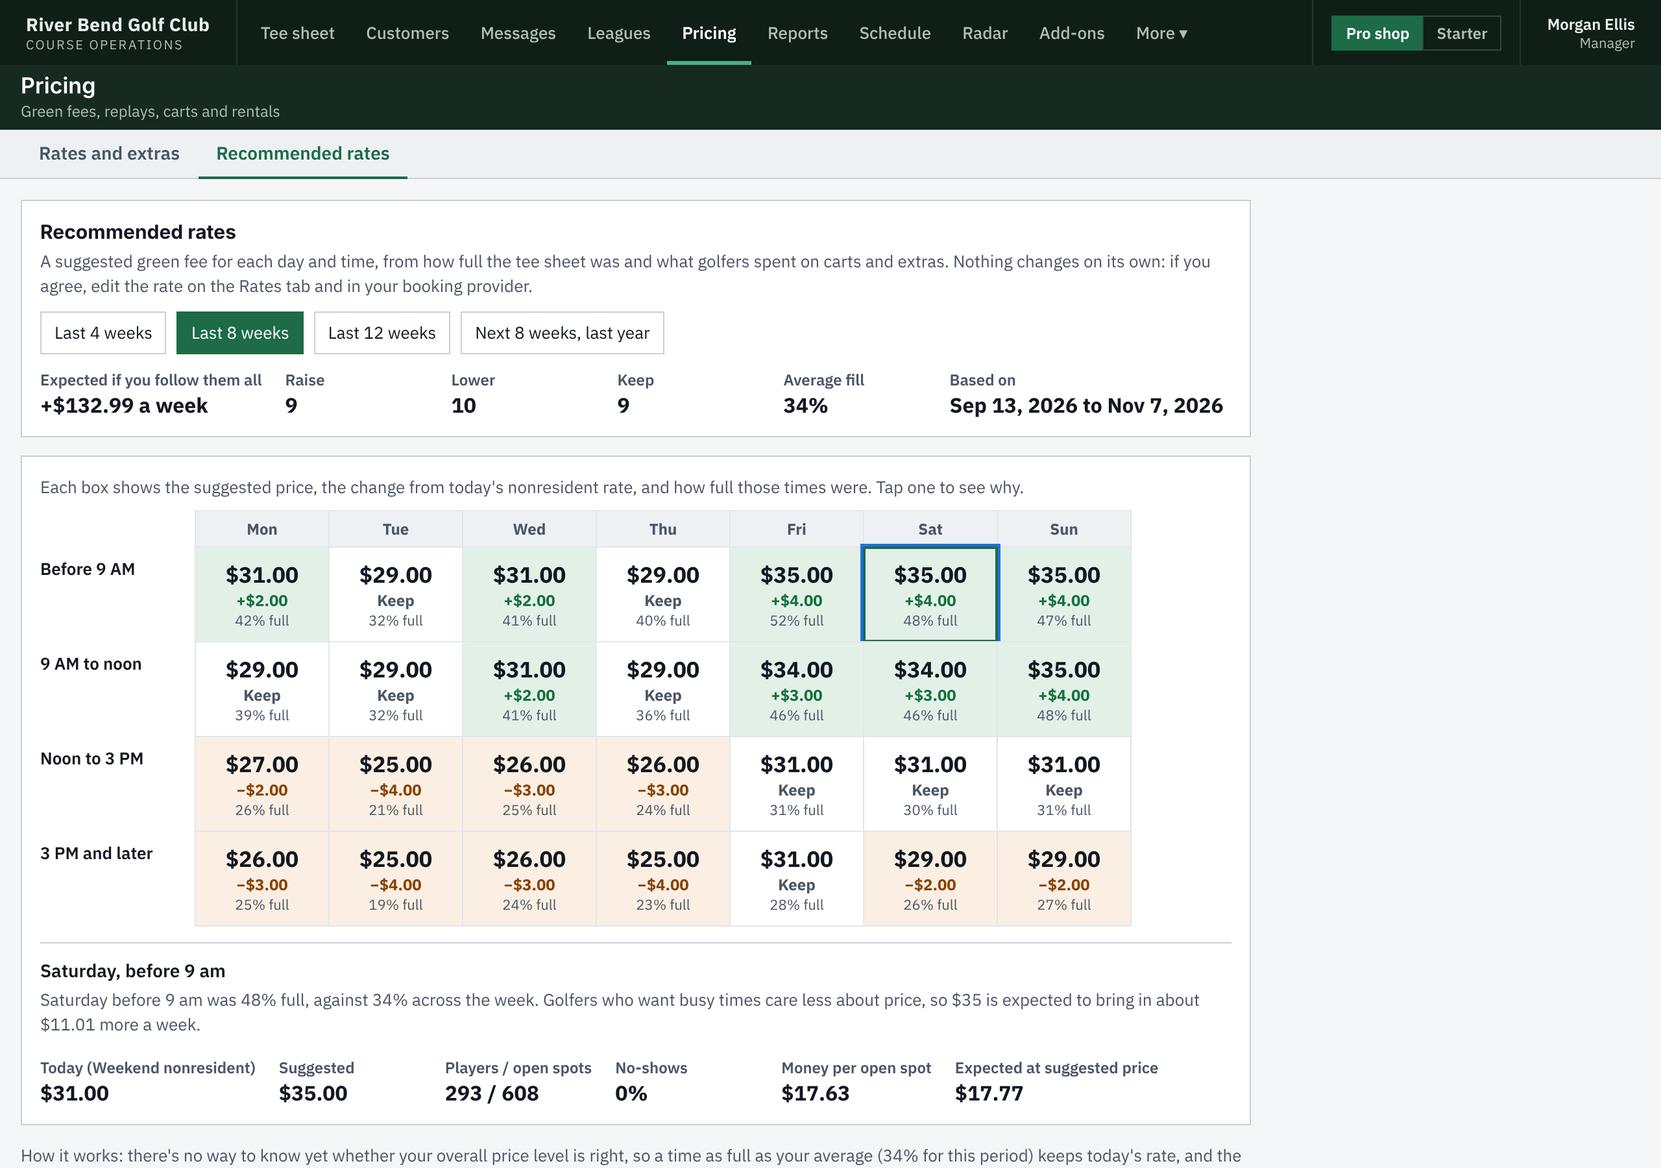
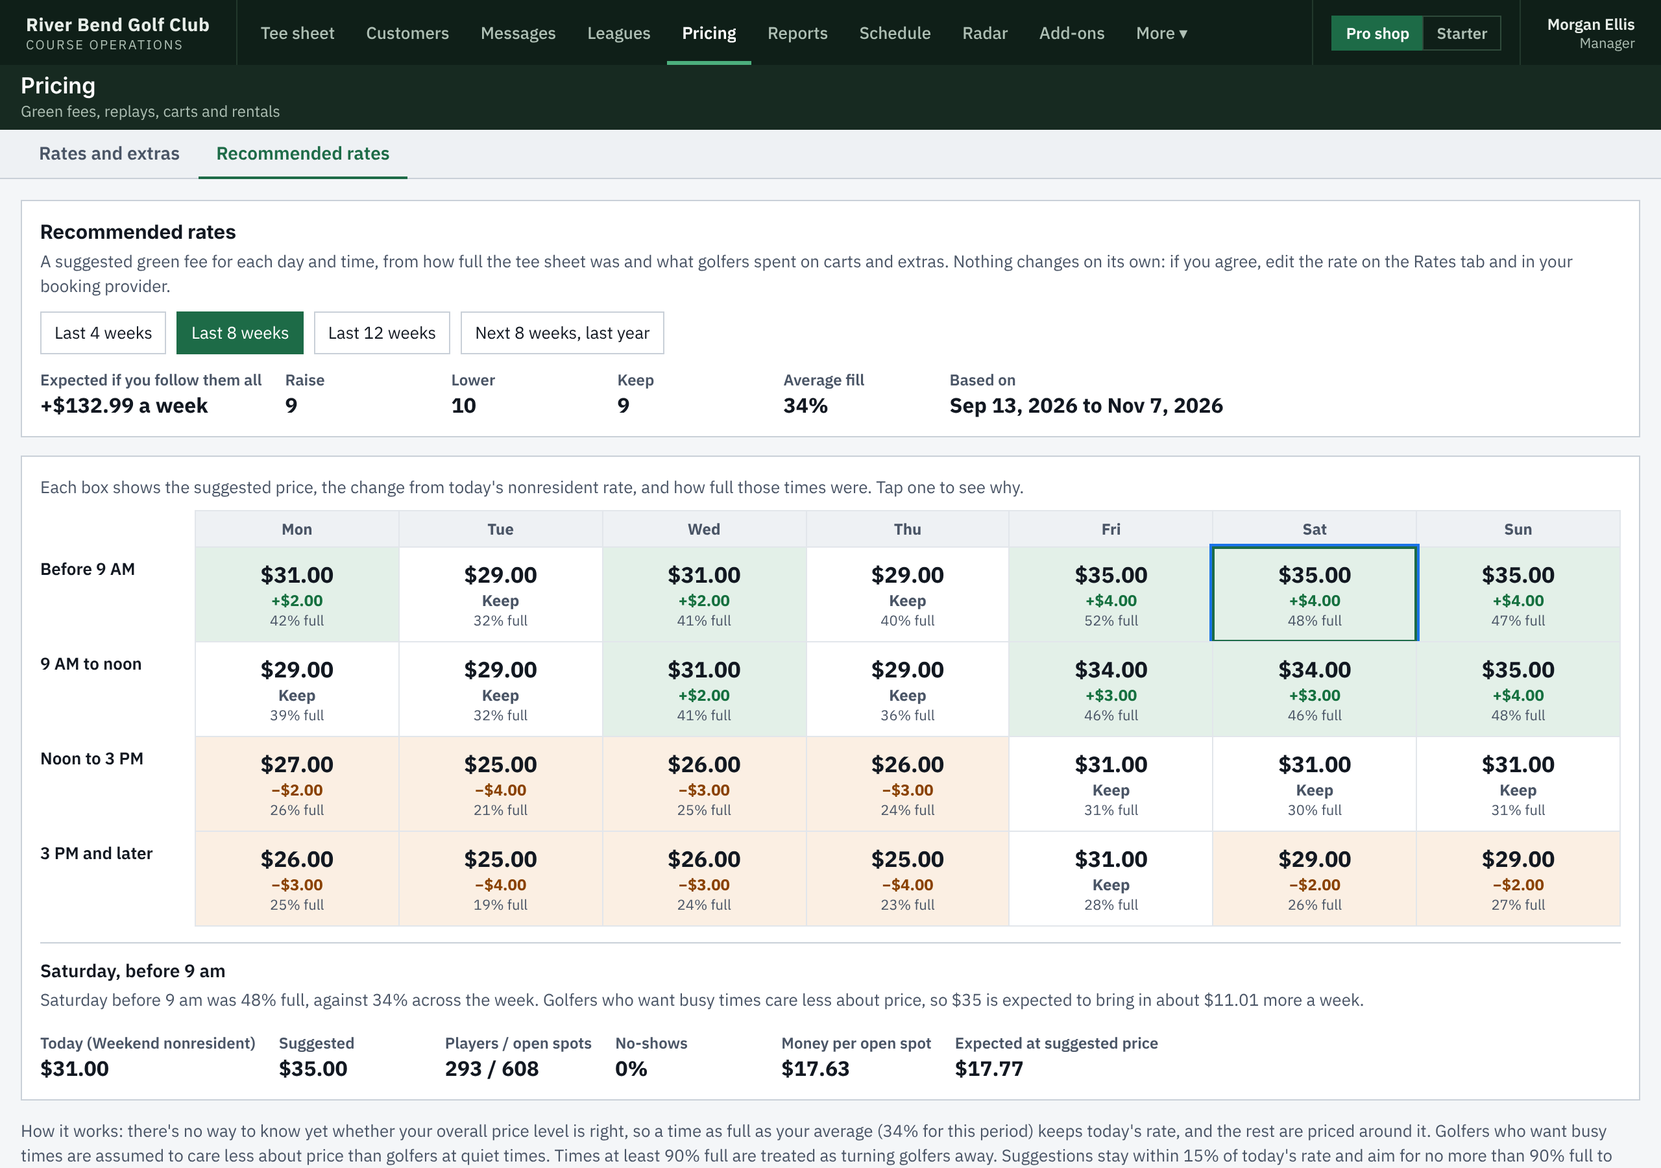
Show the data behind recommended rates at the bottom of the page (#59)
* Add recommended rates: a suggested green fee per day and time of day

Managers get a Recommended rates tab under Pricing (an add-on in the AI
group). It shows a suggested price for each weekday and four times of day,
worked out from how full the tee sheet was and what golfers spent on carts
and extras. A time as full as the course's average keeps today's rate; busier
times are priced up and quieter times down, within 15%. Nothing changes a
price.

- packages/core/src/advice.ts holds the logic, shared by the API and demo
- GET /pricing/recommendations?weeks=&basis=recent|last_year, managers only
- Help article, README section and screenshot

Claude-Session: https://claude.ai/code/session_01Tpz6oW7uy6hy4rdwb8kESU

* Let every screen fill the full width of the window

Pages and their lists, cards and the radar loop used to stop at a fixed
width (640 to 1240 px), leaving empty space on wide screens. They now
stretch across the window. Short form fields and sign-in style boxes keep
their sizes.

Claude-Session: https://claude.ai/code/session_01Tpz6oW7uy6hy4rdwb8kESU

* Show the data behind recommended rates at the bottom of the page

A new "The data behind these rates" section under the grid lists the
settings used (period, course average fill, the turned-away rule, the most
players expected, largest change, smallest gain, how the price response
bends, what isn't counted yet) and a table with one row per day and time:
[…]

diff --git a/apps/staff/src/RateAdviceScreen.tsx b/apps/staff/src/RateAdviceScreen.tsx
@@ -84,8 +84,8 @@ export function RateAdviceScreen({ client }: { client: Client }) {
       {advice && (
         <View style={styles.card}>
           <Text style={[styles.help, { marginBottom: 8 }]}>Each box shows the suggested price, the change from today's nonresident rate, and how full those times were. Tap one to see why.</Text>
-          <ScrollView horizontal>
-            <View role="table" aria-label="Recommended rates by day and time">
+          <ScrollView horizontal contentContainerStyle={{ flexGrow: 1 }}>
+            <View role="table" aria-label="Recommended rates by day and time" style={{ flexGrow: 1 }}>
               <View role="row" style={styles.gridRow}>
                 <View style={styles.bandCell} />
                 {DAYS.map((d) => (
@@ -143,7 +143,125 @@ export function RateAdviceScreen({ client }: { client: Client }) {
           How it works: there's no way to know yet whether your overall price level is right, so a time as full as your average ({Math.round(advice!.averageFillPct)}% for this period) keeps today's rate, and the rest are priced around it. Golfers who want busy times are assumed to care less about price than golfers at quiet times. Times at least {Math.round(a.fullAt * 100)}% full are treated as turning golfers away. Suggestions stay within {Math.round(a.maxChange * 100)}% of today's rate and aim for no more than {Math.round(a.targetFill * 100)}% full to leave room for walk-ups. Food and pro shop sales aren't counted yet. Price tests at your course will replace these guesses later.
         </Text>
       )}
+
+      {advice && <AdviceData advice={advice} />}
     </ScrollView>
+  );
+}
+
+const COLUMNS: { label: string; width: number; help: string }[] = [
+  { label: "Day", width: 96, help: "" },
+  { label: "Time", width: 116, help: "" },
+  { label: "Tee times", width: 76, help: "Open tee times in the period (blocked times left out)" },
+  { label: "Open spots", width: 84, help: "Player spots on those tee times" },
+  { label: "Players", width: 68, help: "Players who came" },
+  { label: "No-shows", width: 76, help: "Booked players who didn't show" },
+  { label: "Fill", width: 64, help: "Players over open spots" },
+  { label: "vs average", width: 80, help: "Fill compared with the course average; 1.00 is average" },
+  { label: "Green fee paid", width: 104, help: "Average first-loop green fee per player, after resident, senior and other rates" },
+  { label: "Extras per player", width: 116, help: "Carts, rentals and other extras per player" },
+  { label: "Money per spot", width: 104, help: "Green fees plus extras over open spots" },
+  { label: "Today's rate", width: 210, help: "Nonresident adult rate at these times" },
+  { label: "Price response", width: 104, help: "Assumed share of players lost for each share of price added" },
+  { label: "Turned away", width: 88, help: "At least 90% full, so counted as turning golfers away" },
+  { label: "Suggested", width: 104, help: "" },
+  { label: "Players a week", width: 104, help: "Expected change in players a week at the suggested price" },
+  { label: "Money a week", width: 104, help: "Expected change in green fees and extras a week" },
+];
+
+const signed = (cents: number) => (cents === 0 ? "$0.00" : `${cents > 0 ? "+" : "−"}${money(Math.abs(cents))}`);
+
+/** Every number that goes into the suggestions, one row per day and time, with the settings used. */
+function AdviceData({ advice }: { advice: RateAdvice }) {
+  const a = advice.assumptions;
+  const bandIndex = (c: AdviceCell) => TIME_BANDS.findIndex((b) => b.id === c.band);
+  const rows = [...advice.cells].sort((x, y) => x.weekday - y.weekday || bandIndex(x) - bandIndex(y));
+  const total = (k: "teeTimes" | "spots" | "players" | "noShows" | "greenFeeCents" | "extrasCents" | "weeklyGainCents") => rows.reduce((s, c) => s + c[k], 0);
+  const players = total("players");
+  const spots = total("spots");
+  const settings: [string, string][] = [
+    ["Period", `${shortDate(advice.from)} to ${shortDate(advice.to)} (${advice.weeks} weeks${advice.basis === "last_year" ? ", one year ago" : ""})`],
+    ["Course average fill", `${advice.averageFillPct}%, from times with at least ${a.minSpots} open spots`],
+    ["Times treated as turning golfers away", `${Math.round(a.fullAt * 100)}% full or more, with ${Math.round((a.turnedAway - 1) * 100)}% more golfers assumed to have wanted them`],
+    ["Most players expected", `${Math.round(a.targetFill * 100)}% of open spots, leaving room for walk-ups`],
+    ["Largest change", `${Math.round(a.maxChange * 100)}% from today's rate, in whole dollars`],
+    ["Smallest gain worth a change", `${Math.round(a.minGain * 1000) / 10}% more money per open spot`],
+    ["Price response", `At an average time it's set so today's rate earns the most, then multiplied by (average fill ÷ fill) to the power ${a.busyBend}`],
+    ["Not counted yet", "Food, bar and pro shop sales, weather, holidays and how far ahead people book"],
+  ];
+  const right = { textAlign: "right" as const };
+  const td = (key: string, text: string, width: number, extra?: object) => (
+    <Text key={key} role="cell" style={[styles.td, { flexGrow: width, flexBasis: width }, extra]}>
+      {text}
+    </Text>
+  );
+  const w = COLUMNS.map((c) => c.width);
+  return (
+    <View style={[styles.card, { marginTop: 14 }]}>
+      <Text role="heading" aria-level={2} style={styles.title}>The data behind these rates</Text>
+      <Text style={[styles.help, { marginBottom: 10 }]}>Everything the suggestions are worked out from, for the period picked above.</Text>
+      <View role="table" aria-label="Settings used" style={{ marginBottom: 14 }}>
+        {settings.map(([k, v]) => (
+          <View key={k} role="row" style={styles.settingRow}>
+            <Text role="rowheader" style={styles.settingKey}>{k}</Text>
+            <Text role="cell" style={styles.settingValue}>{v}</Text>
+          </View>
+        ))}
+      </View>
+      <ScrollView horizontal contentContainerStyle={{ flexGrow: 1 }}>
+        <View role="table" aria-label="Data for each day and time" style={{ flexGrow: 1 }}>
+          <View role="row" style={[styles.tr, { backgroundColor: colors.strip }]}>
+            {COLUMNS.map((c, i) => (
+              <Text key={c.label} role="columnheader" accessibilityHint={c.help || undefined} style={[styles.th, { flexGrow: c.width, flexBasis: c.width }, i >= 2 && right]}>
+                {c.label}
+              </Text>
+            ))}
+          </View>
+          {rows.map((c) => {
+            const has = c.recommendedCents !== null;
+            const dash = (v: string | null) => v ?? "–";
+            return (
+              <View key={`${c.weekday}-${c.band}`} role="row" style={styles.tr}>
+                {td("day", DAY_NAMES[c.weekday - 1]!, w[0]!, { fontWeight: "600" })}
+                {td("time", TIME_BANDS[bandIndex(c)]!.label, w[1]!)}
+                {td("tt", String(c.teeTimes), w[2]!, right)}
+                {td("sp", String(c.spots), w[3]!, right)}
+                {td("pl", String(c.players), w[4]!, right)}
+                {td("ns", String(c.noShows), w[5]!, right)}
+                {td("fill", dash(c.fillPct === null ? null : `${c.fillPct.toFixed(1)}%`), w[6]!, right)}
+                {td("rel", dash(c.relativeFill === null ? null : c.relativeFill.toFixed(2)), w[7]!, right)}
+                {td("gf", dash(c.avgGreenFeeCents === null ? null : money(c.avgGreenFeeCents)), w[8]!, right)}
+                {td("ex", dash(c.extrasPerPlayerCents === null ? null : money(c.extrasPerPlayerCents)), w[9]!, right)}
+                {td("rps", dash(c.revenuePerSpotCents === null ? null : money(c.revenuePerSpotCents)), w[10]!, right)}
+                {td("rate", dash(c.currentCents === null ? null : `${money(c.currentCents)} · ${c.currentRateName}`), w[11]!, right)}
+                {td("resp", dash(c.priceResponse === null ? null : c.priceResponse.toFixed(2)), w[12]!, right)}
+                {td("ta", has ? (c.turnedAway ? "Yes" : "No") : "–", w[13]!, right)}
+                {td("sug", has ? money(c.recommendedCents!) : change(c), w[14]!, has ? { ...right, fontWeight: "700" } : { ...right, color: colors.muted })}
+                {td("pw", has ? `${c.weeklyPlayersChange > 0 ? "+" : ""}${c.weeklyPlayersChange}` : "–", w[15]!, right)}
+                {td("mw", has ? signed(c.weeklyGainCents) : "–", w[16]!, right)}
+              </View>
+            );
+          })}
+          <View role="row" style={[styles.tr, { backgroundColor: colors.strip }]}>
+            {td("day", "Whole week", w[0]! + w[1]!, { fontWeight: "700" })}
+            {td("tt", String(total("teeTimes")), w[2]!, { ...right, fontWeight: "700" })}
+            {td("sp", String(spots), w[3]!, { ...right, fontWeight: "700" })}
+            {td("pl", String(players), w[4]!, { ...right, fontWeight: "700" })}
+            {td("ns", String(total("noShows")), w[5]!, { ...right, fontWeight: "700" })}
+            {td("fill", spots ? `${Math.round((players / spots) * 1000) / 10}%` : "–", w[6]!, { ...right, fontWeight: "700" })}
+            {td("rel", "", w[7]!)}
+            {td("gf", players ? money(Math.round(total("greenFeeCents") / players)) : "–", w[8]!, { ...right, fontWeight: "700" })}
+            {td("ex", players ? money(Math.round(total("extrasCents") / players)) : "–", w[9]!, { ...right, fontWeight: "700" })}
+            {td("rps", spots ? money(Math.round((total("greenFeeCents") + total("extrasCents")) / spots)) : "–", w[10]!, { ...right, fontWeight: "700" })}
+            {td("gap", "", w.slice(11, 16).reduce((s, x) => s + x, 0))}
+            {td("mw", signed(total("weeklyGainCents")), w[16]!, { ...right, fontWeight: "700" })}
+          </View>
+        </View>
+      </ScrollView>
+      <Text style={[styles.help, { marginTop: 10 }]}>
+        Fill and money count players who came; no-shows are left out. "vs average" above 1.00 means busier than the course's average time. Price response −0.80 means about 8% fewer players for a price 10% higher, and 8% more for a price 10% lower.
+      </Text>
+    </View>
   );
 }
 
@@ -174,12 +292,18 @@ const styles = StyleSheet.create({
   gridRow: { flexDirection: "row" },
   bandCell: { width: 120, paddingRight: 8, justifyContent: "center" },
   bandText: { fontSize: 13, fontWeight: "600", color: colors.text, paddingVertical: 8 },
-  dayHead: { width: 104, textAlign: "center", fontSize: 12, fontWeight: "700", color: colors.muted, paddingVertical: 6, backgroundColor: colors.strip, borderWidth: 1, borderColor: colors.rowLine, marginLeft: -1 },
-  cell: { width: 104, height: 74, borderWidth: 1, borderColor: colors.rowLine, marginLeft: -1, marginTop: -1, alignItems: "center", justifyContent: "center", gap: 1 },
+  dayHead: { flexGrow: 1, flexBasis: 104, textAlign: "center", fontSize: 12, fontWeight: "700", color: colors.muted, paddingVertical: 6, backgroundColor: colors.strip, borderWidth: 1, borderColor: colors.rowLine, marginLeft: -1 },
+  cell: { flexGrow: 1, flexBasis: 104, height: 74, borderWidth: 1, borderColor: colors.rowLine, marginLeft: -1, marginTop: -1, alignItems: "center", justifyContent: "center", gap: 1 },
   cellOpen: { borderColor: colors.primary, borderWidth: 2, zIndex: 1 },
   price: { fontSize: 17, fontWeight: "700", color: colors.text, fontVariant: ["tabular-nums"] },
   delta: { fontSize: 12, fontWeight: "700" },
   fill: { fontSize: 11, color: colors.muted },
+  settingRow: { flexDirection: "row", flexWrap: "wrap", borderBottomWidth: 1, borderColor: colors.rowLine, paddingVertical: 6, columnGap: 12 },
+  settingKey: { width: 280, fontSize: 13, fontWeight: "600", color: colors.text },
+  settingValue: { flex: 1, minWidth: 220, fontSize: 13, color: colors.text },
+  tr: { flexDirection: "row", borderBottomWidth: 1, borderColor: colors.rowLine },
+  th: { fontSize: 12, fontWeight: "700", color: colors.muted, paddingVertical: 7, paddingHorizontal: 6 },
+  td: { fontSize: 13, color: colors.text, paddingVertical: 6, paddingHorizontal: 6, fontVariant: ["tabular-nums"] },
   detail: { marginTop: 12, paddingTop: 12, borderTopWidth: 1, borderColor: colors.border },
   focus: { outlineColor: colors.focus, outlineWidth: 2, outlineStyle: "solid" } as object,
 });

diff --git a/packages/core/src/advice.ts b/packages/core/src/advice.ts
@@ -67,10 +67,24 @@ export type AdviceStatus = "raise" | "lower" | "hold" | "no_data" | "no_rate";
 export interface AdviceCell {
   weekday: number;
   band: TimeBand;
+  /** Open tee times in the period. */
+  teeTimes: number;
   spots: number;
   players: number;
+  noShows: number;
   fillPct: number | null;
   noShowPct: number | null;
+  /** Fill compared with the course's average fill (1 = average). */
+  relativeFill: number | null;
+  /** First-loop green fees and extras the players paid, in total and per player. */
+  greenFeeCents: number;
+  extrasCents: number;
+  avgGreenFeeCents: number | null;
+  extrasPerPlayerCents: number | null;
+  /** The assumed price response: the share of players lost per share of price added (e.g. -0.8). */
+  priceResponse: number | null;
+  /** Whether the times were full enough to count as turning golfers away. */
+  turnedAway: boolean;
   /** The standard (nonresident adult) rate at these times today. */
   currentCents: number | null;
   currentRateName: string | null;
@@ -118,6 +132,7 @@ export function recommendRates(input: { teeTimes: AdviceTeeTime[]; rates: RateRu
       groups.push({
         weekday,
         band,
+        teeTimes: times.length,
         spots: sum("spots"),
         players: sum("players"),
         noShows: sum("noShows"),
@@ -131,16 +146,25 @@ export function recommendRates(input: { teeTimes: AdviceTeeTime[]; rates: RateRu
   const allSpots = enough.reduce((s, g) => s + g.spots, 0);
   const average = allSpots ? enough.reduce((s, g) => s + g.players, 0) / allSpots : 0;
 
-  const cells: AdviceCell[] = groups.map(({ weekday, band, spots, players, noShows, green, extras, rate }) => {
+  const cells: AdviceCell[] = groups.map(({ weekday, band, teeTimes, spots, players, noShows, green, extras, rate }) => {
     const fill = spots ? players / spots : null;
     const noShowPct = players + noShows ? Math.round((noShows / (players + noShows)) * 1000) / 10 : null;
     const base: AdviceCell = {
       weekday,
       band: band.id,
+      teeTimes,
       spots,
       players,
+      noShows,
       fillPct: fill === null ? null : Math.round(fill * 1000) / 10,
       noShowPct,
+      relativeFill: fill !== null && average ? Math.round((fill / average) * 100) / 100 : null,
+      greenFeeCents: green,
+      extrasCents: extras,
+      avgGreenFeeCents: players ? Math.round(green / players) : null,
+      extrasPerPlayerCents: players ? Math.round(extras / players) : null,
+      priceResponse: null,
+      turnedAway: false,
       currentCents: rate?.priceCents ?? null,
       currentRateName: rate?.name ?? null,
       recommendedCents: null,
@@ -193,6 +217,8 @@ export function recommendRates(input: { teeTimes: AdviceTeeTime[]; rates: RateRu
       ...base,
       recommendedCents: best,
       status,
+      priceResponse: Math.round(response * 100) / 100,
+      turnedAway: full,
       projectedRevenuePerSpotCents: revenueAt(p0) ? Math.round(((revenueAt(best) / revenueAt(p0)) * (green + extras)) / spots) : base.revenuePerSpotCents,
       weeklyPlayersChange: Math.round(weeklyPlayers * 10) / 10,
       weeklyGainCents: Math.round(weeklyGain),

diff --git a/packages/core/src/help.ts b/packages/core/src/help.ts
@@ -273,6 +273,7 @@ export const HELP_ARTICLES: HelpArticle[] = [
       "Pricing › Recommended rates (managers) shows a grid of the days of the week against four times of day: before 9 AM, 9 AM to noon, noon to 3 PM, and 3 PM and later. Each box has a suggested price, the change from today's nonresident adult rate (or Keep), and how full those times were. Tap a box to see why, with players against open spots, no-shows and the money per open spot now and at the suggested price.",
       "Pick what it's based on: the last 4, 8 or 12 weeks, or the next 8 weeks of last year (better early in a season). The top shows how much more a week you could expect if you followed every suggestion.",
       "Without price tests there's no way to know whether your overall price level is right, so a time as full as your average keeps today's rate and the others are priced around it: busier times up, quieter times down. Golfers who want busy times are assumed to care less about price. Times at least 90% full are treated as turning golfers away. Suggestions stay within 15% of today's rate, in whole dollars, counting carts and extras. Food and pro shop sales aren't counted yet. A box needs at least 100 open spots in the period, or it says Too little data.",
+      "At the bottom, The data behind these rates lists the settings used and, for every day and time, the tee times, open spots, players, no-shows, fill, fill against the average, the average green fee paid, extras per player, money per open spot, today's rate, the assumed price response, whether it counted as turning golfers away, the suggested price and the expected change in players and money a week, with a total for the whole week.",
       "It never changes a price. If you agree, edit the rate on the Rates and extras tab, and in TeeItUp or your other booking provider, since golfers book there. Turn it off in Add-ons › AI › Recommended rates.",
     ],
     keywords: ["recommended", "suggested", "dynamic pricing", "yield", "raise price", "lower price", "how full", "utilization", "price advice", "revenue"],

diff --git a/packages/core/test/advice.test.ts b/packages/core/test/advice.test.ts
@@ -51,6 +51,10 @@ describe("recommended rates", () => {
     expect(quiet.recommendedCents! % 100).toBe(0);
     expect(quiet.weeklyPlayersChange).toBeGreaterThan(0);
     expect(quiet.reason).toMatch(/against 50% across the week/);
+    // The inputs behind each number come back too.
+    expect(quiet).toMatchObject({ teeTimes: 96, spots: 384, noShows: 0, avgGreenFeeCents: 2900, extrasPerPlayerCents: 780, turnedAway: false });
+    expect(quiet.relativeFill).toBeCloseTo(0.4, 1);
+    expect(quiet.priceResponse).toBeLessThan(busy.priceResponse!);
   });
 
   it("keeps the price when every time is about as full", () => {

diff --git a/README.md b/README.md
@@ -348,7 +348,7 @@ The **Help center** (in the account menu) has three parts:
 ### Pricing, add-ons and radar
 
 - **Pricing** lists the green fee and replay rates. Each rate covers chosen days (holidays count as a day), optional hours, a residency and age groups. Everyone can see them; managers add, edit and remove them (`/pricing/rates`). A player pays the most specific rate that fits. Rates keep their code for good, and removing a rate only switches it off, so past bookings still show what they were charged.
-- **Recommended rates** (managers, an add-on in the AI group) is a second tab under Pricing: a suggested green fee for each day of the week and time of day (before 9 AM, 9 to noon, noon to 3, 3 PM and later), worked out from how full the tee sheet was and what golfers spent on carts and extras (`GET /pricing/recommendations?weeks=8&basis=recent|last_year`). Without price tests the course's overall price level can't be judged, so a time as full as the course's average keeps today's rate and the others are shaped around it: busier times up, quieter times down, with golfers at busy times assumed to care less about price. Times 90%+ full count as turning golfers away. Suggestions stay within 15% of today's rate, and the app never changes a price. The logic is `packages/core/src/advice.ts`, shared with the demo.
+- **Recommended rates** (managers, an add-on in the AI group) is a second tab under Pricing: a suggested green fee for each day of the week and time of day (before 9 AM, 9 to noon, noon to 3, 3 PM and later), worked out from how full the tee sheet was and what golfers spent on carts and extras (`GET /pricing/recommendations?weeks=8&basis=recent|last_year`). Without price tests the course's overall price level can't be judged, so a time as full as the course's average keeps today's rate and the others are shaped around it: busier times up, quieter times down, with golfers at busy times assumed to care less about price. Times 90%+ full count as turning golfers away. Suggestions stay within 15% of today's rate, and the app never changes a price. A table at the bottom, The data behind these rates, shows the settings and every input and result for each day and time. The logic is `packages/core/src/advice.ts`, shared with the demo.
 
   ![Recommended rates](docs/screenshots/recommended-rates.png)
 - **Carts and rentals**, at the bottom of Pricing, lists per-person extras such as carts and club rental (`/pricing/add-ons`). The gas cart prices riding golfers, so it can be repriced but not removed. The tee sheet's price pills update as soon as a price changes.
